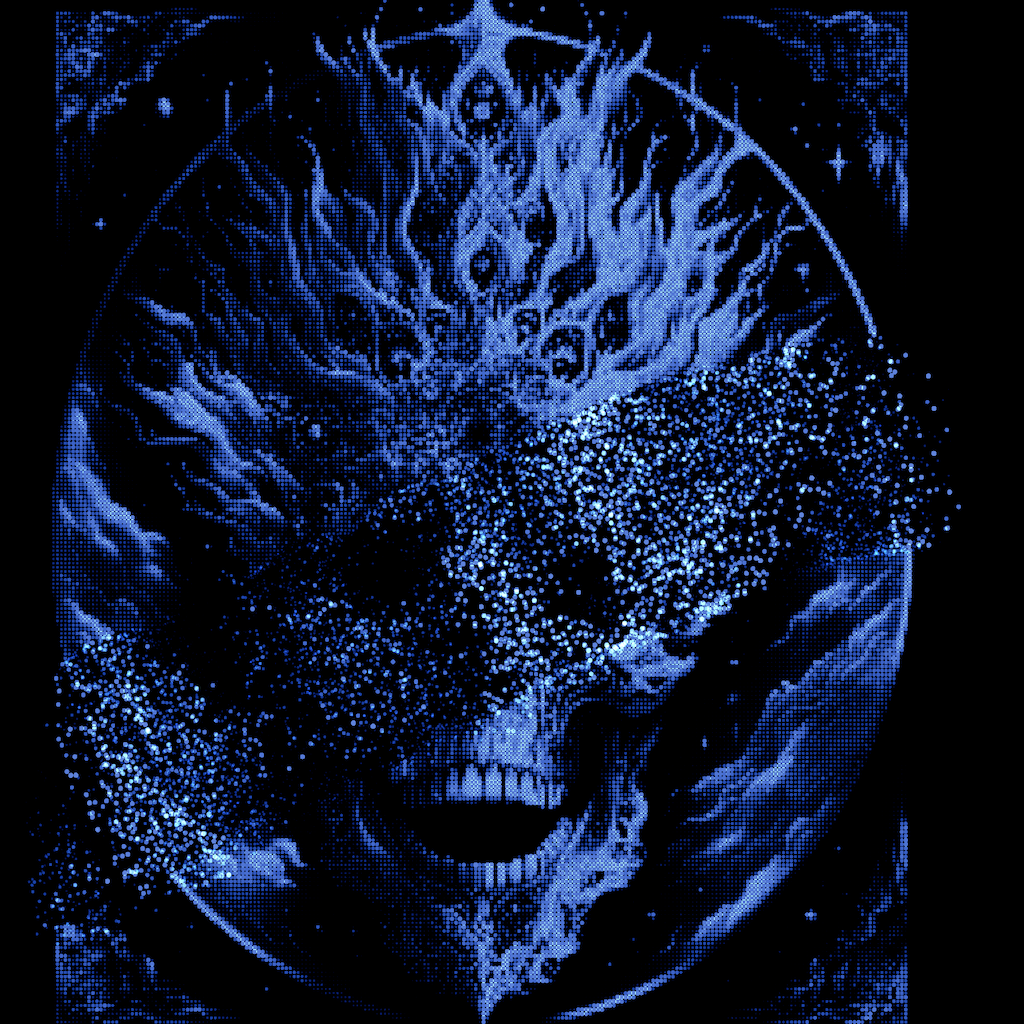
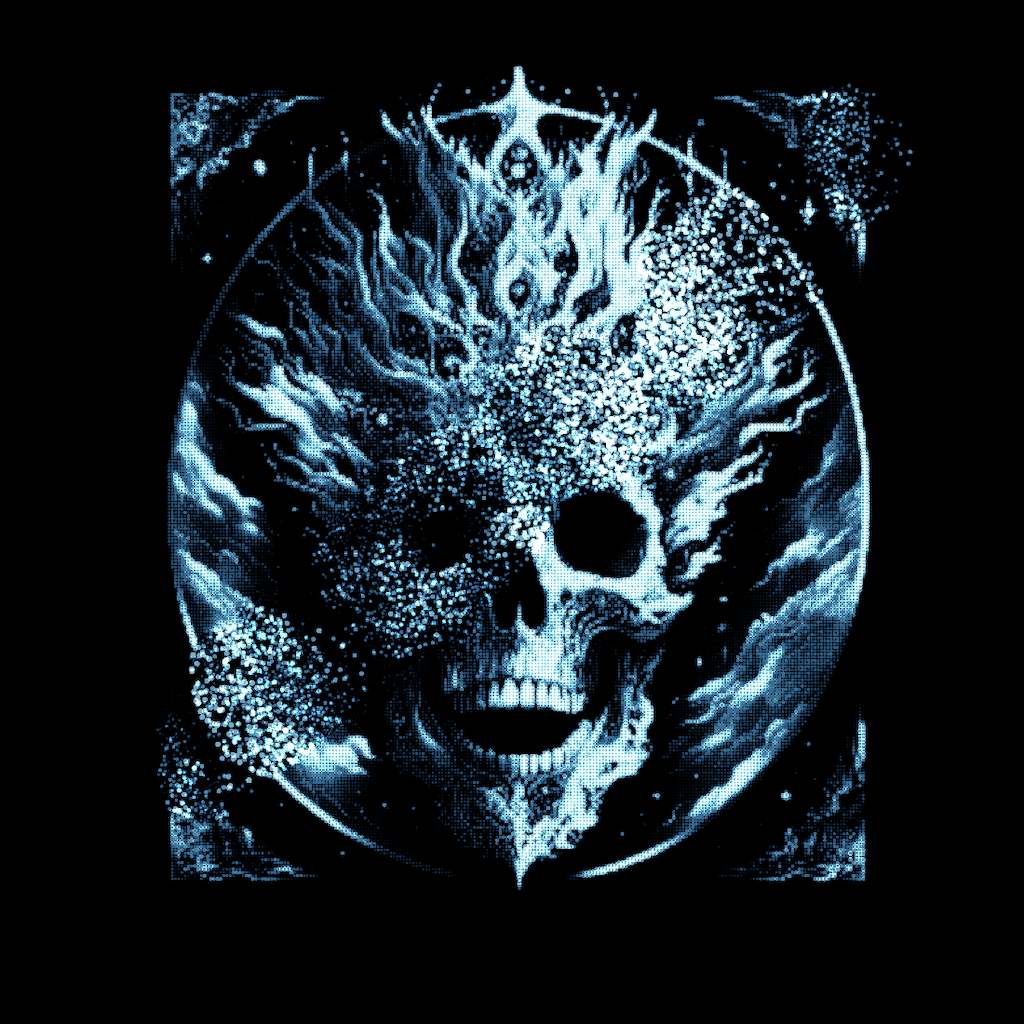
chore: image particles rehaul

diff --git a/src/components/shaders/image-particles.tsx b/src/components/shaders/image-particles.tsx
@@ -146,23 +146,35 @@ export default function ImageParticles() {
 
   const uniforms = {
     uTime: { value: 0 },
-    uColor: { value: new Color('#ffffff') },
+    uColor: { value: new Color('#57a1d2') },
     uPictureTexture: {
       value: useLoader(TextureLoader, '/images/image-particles/e.JPG')
     },
     uDisplacementTexture: { value: displacement.texture },
-    uSize: { value: 0.8 },
     uResolution: {
       max: sizes.width * sizes.pixelRatio,
       value: new Vector2(
         sizes.width * sizes.pixelRatio,
         sizes.height * sizes.pixelRatio
       )
-    }
+    },
+    uSize: { value: 0.8 }
   }
 
   const controls = getControlsFromUniforms(uniforms, shader)
   useControls('ParticleImage', controls)
+  useControls('ParticleImage', {
+    zoom: {
+      value: 80,
+      min: 10,
+      max: 100,
+      step: 0.01,
+      onChange: (val) => {
+        camera.zoom = val
+        camera.updateProjectionMatrix()
+      }
+    }
+  })
   useControls('ParticleImage', {
     image: {
       value: '/images/image-particles/h.JPG',
@@ -188,18 +200,6 @@ export default function ImageParticles() {
         if (canvasRef.current) {
           canvasRef.current.style.display = val ? 'block' : 'none'
         }
-      }
-    }
-  })
-  useControls('ParticleImage', {
-    zoom: {
-      value: 80,
-      min: 10,
-      max: 100,
-      step: 0.01,
-      onChange: (val) => {
-        camera.zoom = val
-        camera.updateProjectionMatrix()
       }
     }
   })
